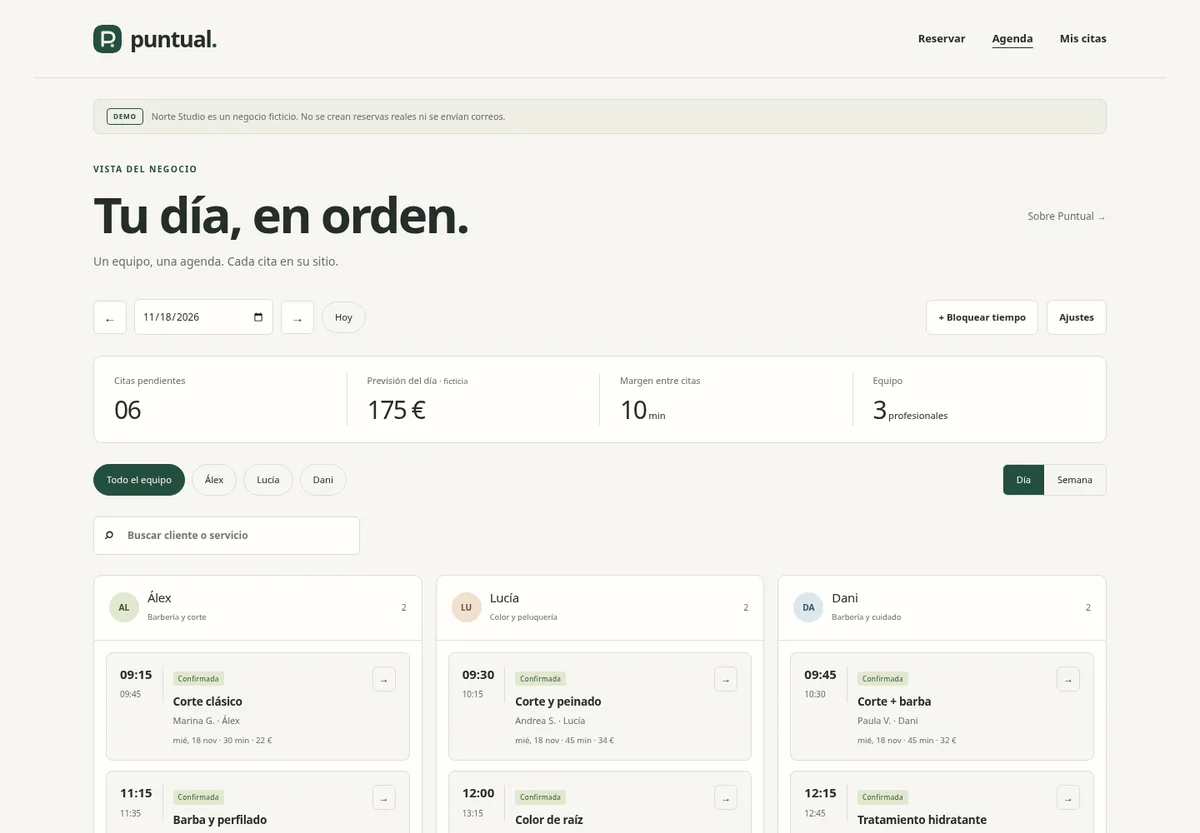
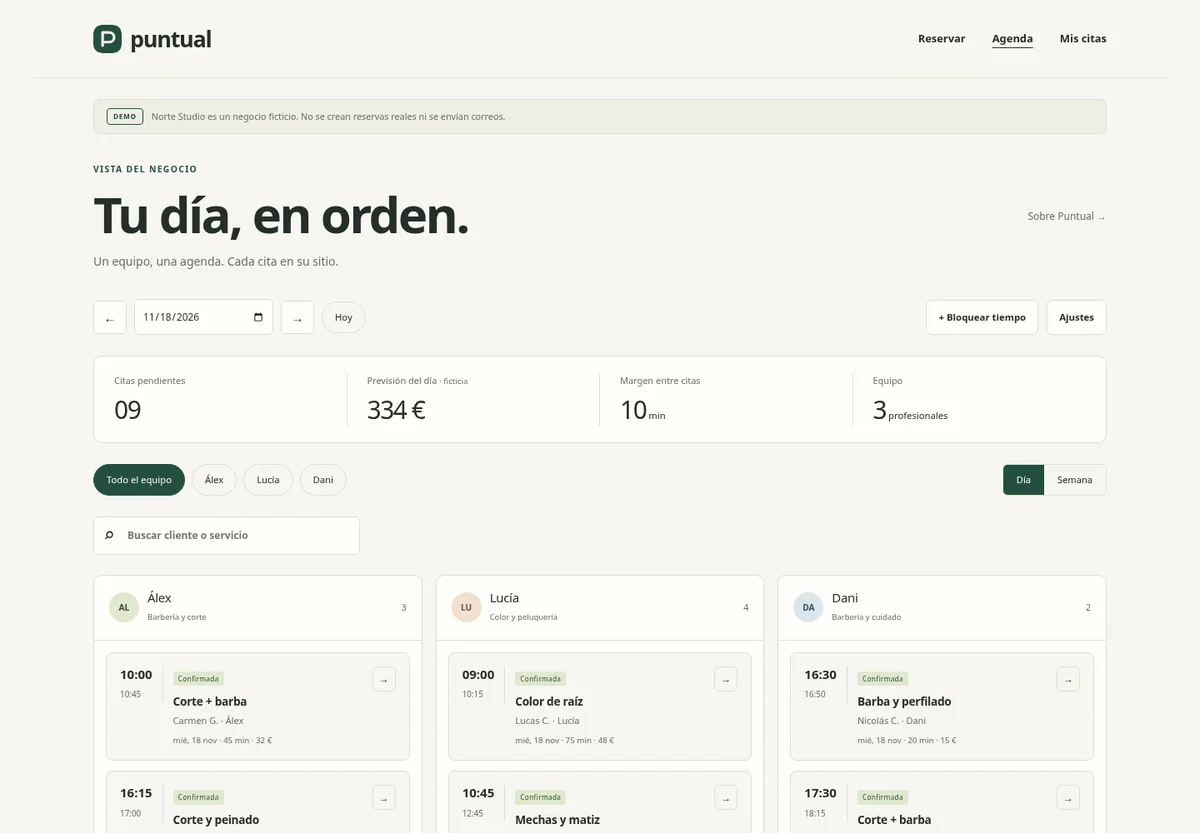
Unificar botones de proyectos y renovar la imagen de Puntual

diff --git a/index.html b/index.html
@@ -41,28 +41,28 @@
     <section class="projects wrap" id="proyectos" aria-labelledby="proyectos-titulo">
       <div class="section-heading"><h2 id="proyectos-titulo">Ideas en marcha<span class="brand-dot">.</span></h2><span class="section-note">PROYECTOS PERSONALES</span></div>
       <article class="featured" aria-labelledby="platto-titulo">
-        <div class="featured-content"><p class="eyebrow"><time datetime="2026">2026</time> · CARTA DIGITAL</p><h3 id="platto-titulo">Tu carta,<br>siempre a punto.</h3><p>Platto presenta una propuesta de carta digital para restaurantes. Prueba el editor, las fotos y el QR en una demo y contacta para preparar una solución propia.</p><ul class="tags" aria-label="Funciones de Platto"><li>Carta digital</li><li>QR permanente</li><li>Demo editable</li></ul><a class="button" href="https://platto.nmclabs.dev/" target="_blank" rel="noopener noreferrer">Descubrir Platto <span aria-hidden="true"><svg class="icon-arrow" viewBox="0 0 24 24" fill="none" aria-hidden="true"><path d="m6 18 12-12M6 6h12v12" stroke="currentColor" stroke-width="1.7" stroke-linecap="round" stroke-linejoin="round"/></svg></span></a></div>
+        <div class="featured-content"><p class="eyebrow"><time datetime="2026">2026</time> · CARTA DIGITAL</p><h3 id="platto-titulo">Tu carta,<br>siempre a punto.</h3><p>Platto presenta una propuesta de carta digital para restaurantes. Prueba el editor, las fotos y el QR en una demo y contacta para preparar una solución propia.</p><ul class="tags" aria-label="Funciones de Platto"><li>Carta digital</li><li>QR permanente</li><li>Demo editable</li></ul><a class="button project-cta" href="https://platto.nmclabs.dev/" target="_blank" rel="noopener noreferrer">Descubrir Platto <span aria-hidden="true"><svg class="icon-arrow" viewBox="0 0 24 24" fill="none" aria-hidden="true"><path d="m6 18 12-12M6 6h12v12" stroke="currentColor" stroke-width="1.7" stroke-linecap="round" stroke-linejoin="round"/></svg></span></a></div>
         <a class="platto-art" href="https://platto.nmclabs.dev/" aria-label="Descubrir Platto" target="_blank" rel="noopener noreferrer"><div class="art-inner" aria-hidden="true"><span class="platto-art-top">MENOS PAPEL. MÁS SABOR.</span><span class="platto-wordmark"><span class="platto-plate"><i></i></span>platto<span>.</span></span><div class="platto-art-menu"><span>PARA COMPARTIR</span><div><span>Chuletón madurado para dos</span><b>89,00 €</b></div><div><span>Ribera del Duero · Reserva</span><b>42,00 €</b></div></div><span class="platto-art-bottom">Tu carta cambia. Tu QR permanece.<span>✳</span></span></div></a>
       <details class="project-origin"><summary><span>La idea detrás del proyecto</span><span class="origin-toggle" aria-hidden="true">+</span></summary><div class="origin-content" aria-label="La idea de Platto"><div><span class="origin-label">LA IDEA</span><p>Una carta puede cambiar cada semana; el QR que está sobre la mesa debería seguir sirviendo.</p></div><div><span class="origin-label">EL RETO</span><p>Que actualizar platos y precios resulte sencillo y la carta se lea bien en un móvil.</p></div><div><span class="origin-label">LA DECISIÓN</span><p>Separar una presentación comercial clara de una demo donde probar el editor antes de dar el siguiente paso.</p></div></div></details></article>
       <article class="featured puntual-featured" aria-labelledby="puntual-titulo">
-        <div class="featured-content"><p class="eyebrow"><time datetime="2026">2026</time> · RESERVAS Y AGENDA</p><h3 id="puntual-titulo">Cada cita,<br>en su sitio.</h3><p>Puntual conecta la reserva del cliente con la agenda del negocio. Una propuesta para barberías y peluquerías, con una demo para elegir servicio, encontrar una hora y gestionar el día.</p><ul class="tags" aria-label="Funciones de Puntual"><li>Reservas</li><li>Agenda de equipo</li><li>Demo conectada</li></ul><a class="button" href="https://puntual.nmclabs.dev/" target="_blank" rel="noopener noreferrer">Descubrir Puntual <span aria-hidden="true"><svg class="icon-arrow" viewBox="0 0 24 24" fill="none" aria-hidden="true"><path d="m6 18 12-12M6 6h12v12" stroke="currentColor" stroke-width="1.7" stroke-linecap="round" stroke-linejoin="round"/></svg></span><span class="sr-only"> (se abre en una pestaña nueva)</span></a></div>
-        <a class="puntual-art" href="https://puntual.nmclabs.dev/" target="_blank" rel="noopener noreferrer" aria-label="Descubrir Puntual en una pestaña nueva"><span class="puntual-art-label">MENOS LLAMADAS. MÁS TIEMPO PARA LO TUYO.</span><img src="proyectos/puntual-card.webp" width="1200" height="833" alt="Agenda de Puntual con citas de ejemplo organizadas por profesional" loading="lazy"><span class="puntual-art-caption">Tu equipo. Una sola agenda.<span aria-hidden="true"><svg class="icon-arrow" viewBox="0 0 24 24" fill="none" aria-hidden="true"><path d="m6 18 12-12M6 6h12v12" stroke="currentColor" stroke-width="1.7" stroke-linecap="round" stroke-linejoin="round"/></svg></span></span></a>
+        <div class="featured-content"><p class="eyebrow"><time datetime="2026">2026</time> · RESERVAS Y AGENDA</p><h3 id="puntual-titulo">Cada cita,<br>en su sitio.</h3><p>Puntual conecta la reserva del cliente con la agenda del negocio. Una propuesta para barberías y peluquerías, con una demo para elegir servicio, encontrar una hora y gestionar el día.</p><ul class="tags" aria-label="Funciones de Puntual"><li>Reservas</li><li>Agenda de equipo</li><li>Demo conectada</li></ul><a class="button project-cta" href="https://puntual.nmclabs.dev/" target="_blank" rel="noopener noreferrer">Descubrir Puntual <span aria-hidden="true"><svg class="icon-arrow" viewBox="0 0 24 24" fill="none" aria-hidden="true"><path d="m6 18 12-12M6 6h12v12" stroke="currentColor" stroke-width="1.7" stroke-linecap="round" stroke-linejoin="round"/></svg></span><span class="sr-only"> (se abre en una pestaña nueva)</span></a></div>
+        <a class="puntual-art" href="https://puntual.nmclabs.dev/" target="_blank" rel="noopener noreferrer" aria-label="Descubrir Puntual en una pestaña nueva"><span class="puntual-art-label">MENOS LLAMADAS. MÁS TIEMPO PARA LO TUYO.</span><img src="proyectos/puntual-card.webp?v=2" width="1200" height="833" alt="Agenda de Puntual con citas de ejemplo organizadas por profesional" loading="lazy"><span class="puntual-art-caption">Tu equipo. Una sola agenda.<span aria-hidden="true"><svg class="icon-arrow" viewBox="0 0 24 24" fill="none" aria-hidden="true"><path d="m6 18 12-12M6 6h12v12" stroke="currentColor" stroke-width="1.7" stroke-linecap="round" stroke-linejoin="round"/></svg></span></span></a>
         <details class="project-origin"><summary><span>La idea detrás del proyecto</span><span class="origin-toggle" aria-hidden="true">+</span></summary><div class="origin-content" aria-label="La idea de Puntual"><div><span class="origin-label">LA IDEA</span><p>Un corte no debería interrumpirse para encontrar una hora entre llamadas y mensajes.</p></div><div><span class="origin-label">EL RETO</span><p>Hacer que cada reserva respete las especialidades del equipo, la duración del servicio y los descansos.</p></div><div><span class="origin-label">LA DECISIÓN</span><p>Conectar la reserva del cliente y la agenda del negocio en una demo completa, con cambios y cancelaciones que actualizan los huecos.</p></div></div></details>
       </article>
       <article class="featured atlas-featured" aria-labelledby="atlas-titulo">
-        <div class="featured-content"><p class="eyebrow"><time datetime="2026">2026</time> · PATRIMONIO PERSONAL</p><h3 id="atlas-titulo">Un lugar para ver<br>tu patrimonio.</h3><p>Atlas reúne cuentas, inversiones y activos en una visión clara. Un registro mensual para entender tu evolución, a tu ritmo.</p><ul class="tags" aria-label="Funciones de Atlas"><li>Patrimonio</li><li>Evolución</li><li>Informes</li></ul><a class="button" href="https://atlas.nmclabs.dev/" target="_blank" rel="noopener noreferrer">Descubrir Atlas <span aria-hidden="true"><svg class="icon-arrow" viewBox="0 0 24 24" fill="none" aria-hidden="true"><path d="m6 18 12-12M6 6h12v12" stroke="currentColor" stroke-width="1.7" stroke-linecap="round" stroke-linejoin="round"/></svg></span><span class="sr-only"> (se abre en una pestaña nueva)</span></a></div>
+        <div class="featured-content"><p class="eyebrow"><time datetime="2026">2026</time> · PATRIMONIO PERSONAL</p><h3 id="atlas-titulo">Un lugar para ver<br>tu patrimonio.</h3><p>Atlas reúne cuentas, inversiones y activos en una visión clara. Un registro mensual para entender tu evolución, a tu ritmo.</p><ul class="tags" aria-label="Funciones de Atlas"><li>Patrimonio</li><li>Evolución</li><li>Informes</li></ul><a class="button project-cta" href="https://atlas.nmclabs.dev/" target="_blank" rel="noopener noreferrer">Descubrir Atlas <span aria-hidden="true"><svg class="icon-arrow" viewBox="0 0 24 24" fill="none" aria-hidden="true"><path d="m6 18 12-12M6 6h12v12" stroke="currentColor" stroke-width="1.7" stroke-linecap="round" stroke-linejoin="round"/></svg></span><span class="sr-only"> (se abre en una pestaña nueva)</span></a></div>
         <a class="atlas-art" href="https://atlas.nmclabs.dev/" aria-label="Descubrir Atlas" target="_blank" rel="noopener noreferrer"><div class="art-inner" aria-hidden="true"><div class="atlas-art-top"><span>UNA VISIÓN MÁS CLARA</span><span><svg class="icon-arrow" viewBox="0 0 24 24" fill="none" aria-hidden="true"><path d="m6 18 12-12M6 6h12v12" stroke="currentColor" stroke-width="1.7" stroke-linecap="round" stroke-linejoin="round"/></svg></span></div><div class="atlas-wordmark"><span class="atlas-bars"><i></i><i></i><i></i></span>atlas<span>.</span></div><svg class="atlas-chart" viewBox="0 0 480 155" fill="none"><path d="M0 36H480M0 85H480M0 134H480" stroke="currentColor" stroke-opacity=".16"/><path d="M0 130 48 121 96 126 144 96 192 100 240 72 288 82 336 44 384 52 432 18 480 6" stroke="currentColor" stroke-width="3" stroke-linecap="round" stroke-linejoin="round"/></svg><div class="atlas-art-bottom"><span>Tu patrimonio, con perspectiva.</span><span>MES A MES</span></div></div></a>
       <details class="project-origin"><summary><span>La idea detrás del proyecto</span><span class="origin-toggle" aria-hidden="true">+</span></summary><div class="origin-content" aria-label="La idea de Atlas"><div><span class="origin-label">LA IDEA</span><p>Un saldo aislado dice poco. La idea es reunir las piezas del patrimonio y conservar una perspectiva mes a mes.</p></div><div><span class="origin-label">EL RETO</span><p>Ver el conjunto sin perder la moneda, la fecha y el contexto de cada registro.</p></div><div><span class="origin-label">LA DECISIÓN</span><p>Organizar la experiencia alrededor de cuentas, inversiones y cierres mensuales, con informes que se puedan conservar.</p></div></div></details></article>
       <article class="featured tramo-featured" aria-labelledby="tramo-titulo">
-        <div class="featured-content"><p class="eyebrow"><time datetime="2026">2026</time> · SEGUIMIENTO DE ENVÍOS</p><h3 id="tramo-titulo">Tus paquetes,<br>en cada tramo.</h3><p>Tramo reúne tus envíos en un solo lugar. Consulta rápida, un espacio personal y una demo para explorar cada paso del recorrido.</p><ul class="tags" aria-label="Funciones de Tramo"><li>Seguimiento</li><li>Paquetes</li><li>Demo interactiva</li></ul><a class="button" href="https://tramo.nmclabs.dev/" target="_blank" rel="noopener noreferrer">Descubrir Tramo <span aria-hidden="true"><svg class="icon-arrow" viewBox="0 0 24 24" fill="none" aria-hidden="true"><path d="m6 18 12-12M6 6h12v12" stroke="currentColor" stroke-width="1.7" stroke-linecap="round" stroke-linejoin="round"/></svg></span></a></div>
+        <div class="featured-content"><p class="eyebrow"><time datetime="2026">2026</time> · SEGUIMIENTO DE ENVÍOS</p><h3 id="tramo-titulo">Tus paquetes,<br>en cada tramo.</h3><p>Tramo reúne tus envíos en un solo lugar. Consulta rápida, un espacio personal y una demo para explorar cada paso del recorrido.</p><ul class="tags" aria-label="Funciones de Tramo"><li>Seguimiento</li><li>Paquetes</li><li>Demo interactiva</li></ul><a class="button project-cta" href="https://tramo.nmclabs.dev/" target="_blank" rel="noopener noreferrer">Descubrir Tramo <span aria-hidden="true"><svg class="icon-arrow" viewBox="0 0 24 24" fill="none" aria-hidden="true"><path d="m6 18 12-12M6 6h12v12" stroke="currentColor" stroke-width="1.7" stroke-linecap="round" stroke-linejoin="round"/></svg></span></a></div>
         <a class="tramo-art" href="https://tramo.nmclabs.dev/" aria-label="Descubrir Tramo" target="_blank" rel="noopener noreferrer"><span class="tramo-art-top">DE UN LUGAR A OTRO. HASTA TI.</span><span class="tramo-wordmark">tramo<span>.</span></span><svg viewBox="0 0 420 100" fill="none" aria-hidden="true"><path d="M30 75C90 75 85 25 160 25S250 75 300 50 340 25 390 25" stroke="currentColor" stroke-width="2" stroke-dasharray="6 6"/><circle cx="30" cy="75" r="6" fill="currentColor"/><circle cx="160" cy="25" r="6" fill="currentColor"/><circle cx="300" cy="50" r="6" fill="currentColor"/><circle cx="390" cy="25" r="10" fill="#df6035"/></svg><span class="tramo-art-bottom">Menos pestañas. Más tranquilidad.<span aria-hidden="true"><svg class="icon-arrow" viewBox="0 0 24 24" fill="none" aria-hidden="true"><path d="m6 18 12-12M6 6h12v12" stroke="currentColor" stroke-width="1.7" stroke-linecap="round" stroke-linejoin="round"/></svg></span></span></a>
       <details class="project-origin"><summary><span>La idea detrás del proyecto</span><span class="origin-toggle" aria-hidden="true">+</span></summary><div class="origin-content" aria-label="La idea de Tramo"><div><span class="origin-label">LA IDEA</span><p>La historia de un envío suele quedar repartida entre compañías, estados y páginas distintas.</p></div><div><span class="origin-label">EL RETO</span><p>Entender qué ha pasado y dónde está el paquete sin tener que reconstruir el recorrido.</p></div><div><span class="origin-label">LA DECISIÓN</span><p>Reunir los eventos en una línea de tiempo y un mapa, conservando el mensaje original del transportista.</p></div></div></details></article>
-<section class="current-tools" aria-labelledby="current-tools-title"><header class="current-tools-heading"><div><p class="eyebrow">CREADAS PARA EL MOMENTO</p><h3 id="current-tools-title">Herramientas de actualidad.</h3></div><p>Guías interactivas, cuentas atrás y simulación.<br>Herramientas con sus fuentes enlazadas.</p></header><div class="current-tools-grid"><article class="current-tool"><a class="current-tool-image" href="https://gtacountdown.nmclabs.dev/" target="_blank" rel="noopener noreferrer" aria-label="Abrir GTA VI · Cuenta atrás en una pestaña nueva"><img src="proyectos/gtacountdown-card.webp" width="1200" height="833" alt="GTA VI: nueva portada con Jason y Lucia y cuenta atrás" loading="lazy"></a><div class="current-tool-content"><p class="eyebrow"><time datetime="2026">2026</time> · CUENTA ATRÁS</p><div class="current-tool-heading"><h4>GTA VI · Cuenta atrás</h4><span>19 de noviembre</span></div><p>La espera de GTA VI con 50 escenas, idioma automático y tarjetas compartibles. Explora Leonida, crea fondos y guarda tus favoritas.</p><a class="current-tool-link" href="https://gtacountdown.nmclabs.dev/" target="_blank" rel="noopener noreferrer">Ver la cuenta atrás <svg class="icon-arrow" viewBox="0 0 24 24" fill="none" aria-hidden="true"><path d="m6 18 12-12M6 6h12v12" stroke="currentColor" stroke-width="1.7" stroke-linecap="round" stroke-linejoin="round"/></svg><span class="sr-only"> (pestaña nueva)</span></a></div><details class="project-origin"><summary><span>La idea detrás del proyecto</span><span class="origin-toggle" aria-hidden="true">+</span></summary><div class="origin-content" aria-label="La idea de GTA VI · Cuenta atrás"><div><span class="origin-label">LA IDEA</span><p>Convertir la espera de GTA VI en una experiencia inspirada en sus pantallas de carga.</p></div><div><span class="origin-label">EL RETO</span><p>Dar variedad a la portada y permitir explorar escenas sin cargar todas las imágenes grandes de golpe.</p></div><div><span class="origin-label">LA DECISIÓN</span><p>Una página de escenas automáticas, favoritos y fondos; el idioma se adapta al sistema para entrar directamente.</p></div></div></details></article><article class="current-tool"><a class="current-tool-image" href="https://29n.nmclabs.dev/" target="_blank" rel="noopener noreferrer" aria-label="Abrir 29N en una pestaña nueva"><img src="proyectos/29n-card.webp" width="1200" height="833" alt="29N: pactómetro con el reparto histórico oficial de 2023 y partidos seleccionables" loading="lazy"></a><div class="current-tool-content"><p class="eyebrow"><time datetime="2026">2026</time> · ESPECIAL ELECTORAL</p><div class="current-tool-heading"><h4>29N</h4><span>29 de noviembre</span></div><p>Un observatorio electoral para comparar sondeos, elegir partidos en las gráficas y explorar el hemiciclo de cada estimación. Con fuentes, contexto y resultados anteriores.</p><a class="current-tool-link" href="https://29n.nmclabs.dev/" target="_blank" rel="noopener noreferrer">Explorar el 29N <svg class="icon-arrow" viewBox="0 0 24 24" fill="none" aria-hidden="true"><path d="m6 18 12-12M6 6h12v12" stroke="currentColor" stroke-width="1.7" stroke-linecap="round" stroke-linejoin="round"/></svg><span class="sr-only"> (pestaña nueva)</span></a></div><details class="project-origin"><summary><span>La idea detrás del proyecto</span><span class="origin-toggle" aria-hidden="true">+</span></summary><div class="origin-content" aria-label="La idea de 29N"><div><span class="origin-label">LA IDEA</span><p>Empezó como un calendario y un pactómetro; la idea creció hacia un observatorio para leer las elecciones.</p></div><div><span class="origin-label">EL RETO</span><p>Entender qué cuenta cada sondeo sin mezclar una encuesta, un resultado oficial y una simulación.</p></div><div><span class="origin-label">LA DECISIÓN</span><p>Dar prioridad a los datos: comparar empresas, elegir partidos en las gráficas y representar los repartos publicados.</p></div></div></details></article></div></section>
+<section class="current-tools" aria-labelledby="current-tools-title"><header class="current-tools-heading"><div><p class="eyebrow">CREADAS PARA EL MOMENTO</p><h3 id="current-tools-title">Herramientas de actualidad.</h3></div><p>Guías interactivas, cuentas atrás y simulación.<br>Herramientas con sus fuentes enlazadas.</p></header><div class="current-tools-grid"><article class="current-tool"><a class="current-tool-image" href="https://gtacountdown.nmclabs.dev/" target="_blank" rel="noopener noreferrer" aria-label="Abrir GTA VI · Cuenta atrás en una pestaña nueva"><img src="proyectos/gtacountdown-card.webp" width="1200" height="833" alt="GTA VI: nueva portada con Jason y Lucia y cuenta atrás" loading="lazy"></a><div class="current-tool-content"><p class="eyebrow"><time datetime="2026">2026</time> · CUENTA ATRÁS</p><div class="current-tool-heading"><h4>GTA VI · Cuenta atrás</h4><span>19 de noviembre</span></div><p>La espera de GTA VI con 50 escenas, idioma automático y tarjetas compartibles. Explora Leonida, crea fondos y guarda tus favoritas.</p><a class="current-tool-link button project-cta" href="https://gtacountdown.nmclabs.dev/" target="_blank" rel="noopener noreferrer">Descubrir GTA VI <svg class="icon-arrow" viewBox="0 0 24 24" fill="none" aria-hidden="true"><path d="m6 18 12-12M6 6h12v12" stroke="currentColor" stroke-width="1.7" stroke-linecap="round" stroke-linejoin="round"/></svg><span class="sr-only"> (pestaña nueva)</span></a></div><details class="project-origin"><summary><span>La idea detrás del proyecto</span><span class="origin-toggle" aria-hidden="true">+</span></summary><div class="origin-content" aria-label="La idea de GTA VI · Cuenta atrás"><div><span class="origin-label">LA IDEA</span><p>Convertir la espera de GTA VI en una experiencia inspirada en sus pantallas de carga.</p></div><div><span class="origin-label">EL RETO</span><p>Dar variedad a la portada y permitir explorar escenas sin cargar todas las imágenes grandes de golpe.</p></div><div><span class="origin-label">LA DECISIÓN</span><p>Una página de escenas automáticas, favoritos y fondos; el idioma se adapta al sistema para entrar directamente.</p></div></div></details></article><article class="current-tool"><a class="current-tool-image" href="https://29n.nmclabs.dev/" target="_blank" rel="noopener noreferrer" aria-label="Abrir 29N en una pestaña nueva"><img src="proyectos/29n-card.webp" width="1200" height="833" alt="29N: pactómetro con el reparto histórico oficial de 2023 y partidos seleccionables" loading="lazy"></a><div class="current-tool-content"><p class="eyebrow"><time datetime="2026">2026</time> · ESPECIAL ELECTORAL</p><div class="current-tool-heading"><h4>29N</h4><span>29 de noviembre</span></div><p>Un observatorio electoral para comparar sondeos, elegir partidos en las gráficas y explorar el hemiciclo de cada estimación. Con fuentes, contexto y resultados anteriores.</p><a class="current-tool-link button project-cta" href="https://29n.nmclabs.dev/" target="_blank" rel="noopener noreferrer">Descubrir 29N <svg class="icon-arrow" viewBox="0 0 24 24" fill="none" aria-hidden="true"><path d="m6 18 12-12M6 6h12v12" stroke="currentColor" stroke-width="1.7" stroke-linecap="round" stroke-linejoin="round"/></svg><span class="sr-only"> (pestaña nueva)</span></a></div><details class="project-origin"><summary><span>La idea detrás del proyecto</span><span class="origin-toggle" aria-hidden="true">+</span></summary><div class="origin-content" aria-label="La idea de 29N"><div><span class="origin-label">LA IDEA</span><p>Empezó como un calendario y un pactómetro; la idea creció hacia un observatorio para leer las elecciones.</p></div><div><span class="origin-label">EL RETO</span><p>Entender qué cuenta cada sondeo sin mezclar una encuesta, un resultado oficial y una simulación.</p></div><div><span class="origin-label">LA DECISIÓN</span><p>Dar prioridad a los datos: comparar empresas, elegir partidos en las gráficas y representar los repartos publicados.</p></div></div></details></article></div></section>
       <div class="archive-heading"><h3>Donde empezó todo</h3><p>Mis primeras webs, con su año de origen y nuevas formas de revisitarlas.</p></div>
       <div class="project-grid">
-<article class="project-lineage" aria-label="Tinyspace: original y rediseño del mismo proyecto"><header class="lineage-heading"><div><h3>Tinyspace</h3><p>Del primer catálogo de mobiliario a una tienda que permite probar sus muebles a escala.</p></div><span class="lineage-years"><time datetime="2022">2022</time><span aria-hidden="true">→</span><time datetime="2026">2026</time></span></header><div class="lineage-versions"><section class="lineage-original"><p class="version-badge">EL ORIGINAL · 2022</p><a class="lineage-image" href="https://tinyspace.nmclabs.dev/" target="_blank" rel="noopener noreferrer" aria-label="Visitar Tinyspace original (pestaña nueva)"><img src="proyectos/tinyspace-original-card.webp" width="1440" height="1000" alt="Tinyspace: versión original" loading="lazy"></a><h4>El primer catálogo.</h4><p>Un concepto de mueblería para practicar HTML, CSS, imágenes y composición.</p><a class="lineage-action" href="https://tinyspace.nmclabs.dev/" target="_blank" rel="noopener noreferrer">Visitar original <svg class="icon-arrow" viewBox="0 0 24 24" fill="none" aria-hidden="true"><path d="m6 18 12-12M6 6h12v12" stroke="currentColor" stroke-width="1.7" stroke-linecap="round" stroke-linejoin="round"/></svg></a></section><section class="lineage-new"><p class="version-badge">EL REDISEÑO · 2026 · NMC LABS</p><a class="lineage-image" href="https://tiny.nmclabs.dev/" target="_blank" rel="noopener noreferrer" aria-label="Explorar Tinyspace rediseñado (pestaña nueva)"><img src="proyectos/tinyspace-redesign-card.webp" width="1440" height="1000" alt="Tinyspace: nueva versión de NMC Labs" loading="lazy"></a><h4>Tienda y plano a medida.</h4><p>Treinta productos, una habitación editable y propuestas para empresas.</p><a class="lineage-action primary" href="https://tiny.nmclabs.dev/" target="_blank" rel="noopener noreferrer">Explorar rediseño <svg class="icon-arrow" viewBox="0 0 24 24" fill="none" aria-hidden="true"><path d="m6 18 12-12M6 6h12v12" stroke="currentColor" stroke-width="1.7" stroke-linecap="round" stroke-linejoin="round"/></svg></a></section></div><footer class="lineage-footer"><span>Un mismo proyecto. Dos etapas.</span><a href="proyectos/tinyspace.html">Ver su historia y evolución <span aria-hidden="true">→</span></a></footer></article>
-<article class="project-lineage" aria-label="El Estanque Azul: original y rediseño del mismo proyecto"><header class="lineage-heading"><div><h3>El Estanque Azul</h3><p>De presentar una granja a diseñar una jornada con su propio programa.</p></div><span class="lineage-years"><time datetime="2021">2021</time><span aria-hidden="true">→</span><time datetime="2026">2026</time></span></header><div class="lineage-versions"><section class="lineage-original"><p class="version-badge">EL ORIGINAL · 2021</p><a class="lineage-image" href="https://estanque.nmclabs.dev/" target="_blank" rel="noopener noreferrer" aria-label="Visitar El Estanque Azul original (pestaña nueva)"><img src="proyectos/estanque-original-card.webp" width="1440" height="1000" alt="El Estanque Azul: versión original" loading="lazy"></a><h4>Mi primera web.</h4><p>Una granja imaginaria como primer proyecto de HTML y CSS.</p><a class="lineage-action" href="https://estanque.nmclabs.dev/" target="_blank" rel="noopener noreferrer">Visitar original <svg class="icon-arrow" viewBox="0 0 24 24" fill="none" aria-hidden="true"><path d="m6 18 12-12M6 6h12v12" stroke="currentColor" stroke-width="1.7" stroke-linecap="round" stroke-linejoin="round"/></svg></a></section><section class="lineage-new"><p class="version-badge">EL REDISEÑO · 2026 · NMC LABS</p><a class="lineage-image" href="https://granja.nmclabs.dev/" target="_blank" rel="noopener noreferrer" aria-label="Explorar El Estanque Azul rediseñado (pestaña nueva)"><img src="proyectos/estanque-redesign-card.webp" width="1440" height="1000" alt="El Estanque Azul: nueva versión de NMC Labs" loading="lazy"></a><h4>Diseña un día en la granja.</h4><p>Descubre la granja y prepara una visita con duración y presupuesto calculados.</p><a class="lineage-action primary" href="https://granja.nmclabs.dev/" target="_blank" rel="noopener noreferrer">Explorar rediseño <svg class="icon-arrow" viewBox="0 0 24 24" fill="none" aria-hidden="true"><path d="m6 18 12-12M6 6h12v12" stroke="currentColor" stroke-width="1.7" stroke-linecap="round" stroke-linejoin="round"/></svg></a></section></div><footer class="lineage-footer"><span>Un mismo proyecto. Dos etapas.</span><a href="proyectos/estanque-azul.html">Ver su historia y evolución <span aria-hidden="true">→</span></a></footer></article>
-<article class="project-lineage" aria-label="Skullscape: original y rediseño del mismo proyecto"><header class="lineage-heading"><div><h3>Skullscape</h3><p>De presentar unos auriculares a elegir el modelo y darles tu estilo.</p></div><span class="lineage-years"><time datetime="2023">2023</time><span aria-hidden="true">→</span><time datetime="2026">2026</time></span></header><div class="lineage-versions"><section class="lineage-original"><p class="version-badge">EL ORIGINAL · 2023</p><a class="lineage-image" href="https://skullscape.nmclabs.dev/" target="_blank" rel="noopener noreferrer" aria-label="Visitar Skullscape original (pestaña nueva)"><img src="proyectos/skullscape-original-card.webp" width="1440" height="1000" alt="Skullscape: la landing de auriculares original" loading="lazy"></a><h4>Una marca para aprender.</h4><p>Una landing de auriculares como ejercicio de diseño y maquetación con HTML y CSS.</p><a class="lineage-action" href="https://skullscape.nmclabs.dev/" target="_blank" rel="noopener noreferrer">Visitar original <svg class="icon-arrow" viewBox="0 0 24 24" fill="none" aria-hidden="true"><path d="m6 18 12-12M6 6h12v12" stroke="currentColor" stroke-width="1.7" stroke-linecap="round" stroke-linejoin="round"/></svg></a></section><section class="lineage-new"><p class="version-badge">EL REDISEÑO · 2026 · NMC LABS</p><a class="lineage-image" href="https://audio.nmclabs.dev/" target="_blank" rel="noopener noreferrer" aria-label="Explorar Skullscape rediseñado (pestaña nueva)"><img src="proyectos/skullscape-redesign-card.webp" width="1440" height="1000" alt="Skullscape: tienda de auriculares personalizables de NMC Labs" loading="lazy"></a><h4>Tu modelo. Tu firma.</h4><p>Tres modelos, comparador y personalización de acabados, almohadillas y grabado.</p><a class="lineage-action primary" href="https://audio.nmclabs.dev/" target="_blank" rel="noopener noreferrer">Explorar rediseño <svg class="icon-arrow" viewBox="0 0 24 24" fill="none" aria-hidden="true"><path d="m6 18 12-12M6 6h12v12" stroke="currentColor" stroke-width="1.7" stroke-linecap="round" stroke-linejoin="round"/></svg></a></section></div><footer class="lineage-footer"><span>Un mismo proyecto. Dos etapas.</span><a href="proyectos/skullscape.html">Ver su historia y evolución <span aria-hidden="true">→</span></a></footer></article>
+<article class="project-lineage" aria-label="Tinyspace: original y rediseño del mismo proyecto"><header class="lineage-heading"><div><h3>Tinyspace</h3><p>Del primer catálogo de mobiliario a una tienda que permite probar sus muebles a escala.</p></div><span class="lineage-years"><time datetime="2022">2022</time><span aria-hidden="true">→</span><time datetime="2026">2026</time></span></header><div class="lineage-versions"><section class="lineage-original"><p class="version-badge">EL ORIGINAL · 2022</p><a class="lineage-image" href="https://tinyspace.nmclabs.dev/" target="_blank" rel="noopener noreferrer" aria-label="Visitar Tinyspace original (pestaña nueva)"><img src="proyectos/tinyspace-original-card.webp" width="1440" height="1000" alt="Tinyspace: versión original" loading="lazy"></a><h4>El primer catálogo.</h4><p>Un concepto de mueblería para practicar HTML, CSS, imágenes y composición.</p><a class="lineage-action button project-cta" href="https://tinyspace.nmclabs.dev/" target="_blank" rel="noopener noreferrer">Visitar original <svg class="icon-arrow" viewBox="0 0 24 24" fill="none" aria-hidden="true"><path d="m6 18 12-12M6 6h12v12" stroke="currentColor" stroke-width="1.7" stroke-linecap="round" stroke-linejoin="round"/></svg></a></section><section class="lineage-new"><p class="version-badge">EL REDISEÑO · 2026 · NMC LABS</p><a class="lineage-image" href="https://tiny.nmclabs.dev/" target="_blank" rel="noopener noreferrer" aria-label="Explorar Tinyspace rediseñado (pestaña nueva)"><img src="proyectos/tinyspace-redesign-card.webp" width="1440" height="1000" alt="Tinyspace: nueva versión de NMC Labs" loading="lazy"></a><h4>Tienda y plano a medida.</h4><p>Treinta productos, una habitación editable y propuestas para empresas.</p><a class="lineage-action primary button project-cta" href="https://tiny.nmclabs.dev/" target="_blank" rel="noopener noreferrer">Descubrir rediseño <svg class="icon-arrow" viewBox="0 0 24 24" fill="none" aria-hidden="true"><path d="m6 18 12-12M6 6h12v12" stroke="currentColor" stroke-width="1.7" stroke-linecap="round" stroke-linejoin="round"/></svg></a></section></div><footer class="lineage-footer"><span>Un mismo proyecto. Dos etapas.</span><a class="button project-cta" href="proyectos/tinyspace.html">Historia y evolución <span aria-hidden="true">→</span></a></footer></article>
+<article class="project-lineage" aria-label="El Estanque Azul: original y rediseño del mismo proyecto"><header class="lineage-heading"><div><h3>El Estanque Azul</h3><p>De presentar una granja a diseñar una jornada con su propio programa.</p></div><span class="lineage-years"><time datetime="2021">2021</time><span aria-hidden="true">→</span><time datetime="2026">2026</time></span></header><div class="lineage-versions"><section class="lineage-original"><p class="version-badge">EL ORIGINAL · 2021</p><a class="lineage-image" href="https://estanque.nmclabs.dev/" target="_blank" rel="noopener noreferrer" aria-label="Visitar El Estanque Azul original (pestaña nueva)"><img src="proyectos/estanque-original-card.webp" width="1440" height="1000" alt="El Estanque Azul: versión original" loading="lazy"></a><h4>Mi primera web.</h4><p>Una granja imaginaria como primer proyecto de HTML y CSS.</p><a class="lineage-action button project-cta" href="https://estanque.nmclabs.dev/" target="_blank" rel="noopener noreferrer">Visitar original <svg class="icon-arrow" viewBox="0 0 24 24" fill="none" aria-hidden="true"><path d="m6 18 12-12M6 6h12v12" stroke="currentColor" stroke-width="1.7" stroke-linecap="round" stroke-linejoin="round"/></svg></a></section><section class="lineage-new"><p class="version-badge">EL REDISEÑO · 2026 · NMC LABS</p><a class="lineage-image" href="https://granja.nmclabs.dev/" target="_blank" rel="noopener noreferrer" aria-label="Explorar El Estanque Azul rediseñado (pestaña nueva)"><img src="proyectos/estanque-redesign-card.webp" width="1440" height="1000" alt="El Estanque Azul: nueva versión de NMC Labs" loading="lazy"></a><h4>Diseña un día en la granja.</h4><p>Descubre la granja y prepara una visita con duración y presupuesto calculados.</p><a class="lineage-action primary button project-cta" href="https://granja.nmclabs.dev/" target="_blank" rel="noopener noreferrer">Descubrir rediseño <svg class="icon-arrow" viewBox="0 0 24 24" fill="none" aria-hidden="true"><path d="m6 18 12-12M6 6h12v12" stroke="currentColor" stroke-width="1.7" stroke-linecap="round" stroke-linejoin="round"/></svg></a></section></div><footer class="lineage-footer"><span>Un mismo proyecto. Dos etapas.</span><a class="button project-cta" href="proyectos/estanque-azul.html">Historia y evolución <span aria-hidden="true">→</span></a></footer></article>
+<article class="project-lineage" aria-label="Skullscape: original y rediseño del mismo proyecto"><header class="lineage-heading"><div><h3>Skullscape</h3><p>De presentar unos auriculares a elegir el modelo y darles tu estilo.</p></div><span class="lineage-years"><time datetime="2023">2023</time><span aria-hidden="true">→</span><time datetime="2026">2026</time></span></header><div class="lineage-versions"><section class="lineage-original"><p class="version-badge">EL ORIGINAL · 2023</p><a class="lineage-image" href="https://skullscape.nmclabs.dev/" target="_blank" rel="noopener noreferrer" aria-label="Visitar Skullscape original (pestaña nueva)"><img src="proyectos/skullscape-original-card.webp" width="1440" height="1000" alt="Skullscape: la landing de auriculares original" loading="lazy"></a><h4>Una marca para aprender.</h4><p>Una landing de auriculares como ejercicio de diseño y maquetación con HTML y CSS.</p><a class="lineage-action button project-cta" href="https://skullscape.nmclabs.dev/" target="_blank" rel="noopener noreferrer">Visitar original <svg class="icon-arrow" viewBox="0 0 24 24" fill="none" aria-hidden="true"><path d="m6 18 12-12M6 6h12v12" stroke="currentColor" stroke-width="1.7" stroke-linecap="round" stroke-linejoin="round"/></svg></a></section><section class="lineage-new"><p class="version-badge">EL REDISEÑO · 2026 · NMC LABS</p><a class="lineage-image" href="https://audio.nmclabs.dev/" target="_blank" rel="noopener noreferrer" aria-label="Explorar Skullscape rediseñado (pestaña nueva)"><img src="proyectos/skullscape-redesign-card.webp" width="1440" height="1000" alt="Skullscape: tienda de auriculares personalizables de NMC Labs" loading="lazy"></a><h4>Tu modelo. Tu firma.</h4><p>Tres modelos, comparador y personalización de acabados, almohadillas y grabado.</p><a class="lineage-action primary button project-cta" href="https://audio.nmclabs.dev/" target="_blank" rel="noopener noreferrer">Descubrir rediseño <svg class="icon-arrow" viewBox="0 0 24 24" fill="none" aria-hidden="true"><path d="m6 18 12-12M6 6h12v12" stroke="currentColor" stroke-width="1.7" stroke-linecap="round" stroke-linejoin="round"/></svg></a></section></div><footer class="lineage-footer"><span>Un mismo proyecto. Dos etapas.</span><a class="button project-cta" href="proyectos/skullscape.html">Historia y evolución <span aria-hidden="true">→</span></a></footer></article>
       </div>
     </section>
     <section class="about wrap" id="sobre-mi" aria-labelledby="sobre-mi-titulo"><p class="eyebrow">UN POCO SOBRE MÍ</p><div class="about-grid"><h2 id="sobre-mi-titulo">La curiosidad,<br>puesta en práctica.</h2><div><p>Soy Nel, técnico de sistemas y la persona detrás de NMC Labs. Me gusta entender cómo funcionan las cosas. Aquí comparto lo que voy construyendo: desde mis primeras webs hasta aplicaciones que nacen de una necesidad real.</p><p>Este es mi espacio para probar, aprender y dar forma a nuevas ideas. La tecnología cambia; las ganas de crear algo útil, siguen.</p><ul class="tags" aria-label="Áreas de interés"><li>Sistemas</li><li>Desarrollo web</li><li>Automatización</li><li>Inteligencia artificial</li></ul></div></div></section>

diff --git a/estilos.css b/estilos.css
@@ -107,3 +107,11 @@ details.project-origin{display:block;grid-column:1/-1;padding:0!important}detail
 .current-tool>details.project-origin>.origin-content{display:grid;grid-template-columns:1fr;gap:17px;padding:3px 0 15px}
 
 .puntual-featured{margin-top:28px}.puntual-art{display:flex;flex-direction:column;justify-content:center;gap:25px;min-width:0;padding:32px;background:#e7ebdd;color:#294c3b}.puntual-art img{display:block;width:100%;height:auto;border:1px solid #c8d3bd;border-radius:7px;box-shadow:0 12px 32px #294c3b18}.puntual-art-label{font-size:9px;letter-spacing:.12em}.puntual-art-caption{display:flex;justify-content:space-between;align-items:center;gap:20px;font-size:11px}.puntual-art:hover{color:#294c3b}.puntual-art:focus-visible{outline-offset:-5px}@media(prefers-color-scheme:dark){.puntual-art{background:#2b3d2e;color:#e1edce}.puntual-art:hover{color:#e1edce}.puntual-art img{border-color:#617658}}@media(max-width:680px){.puntual-art{padding:26px;gap:20px}.puntual-art-label{font-size:8px}}
+
+/* One action style for products, current tools and both stages of a redesign. */
+.projects a.project-cta{display:inline-flex;align-items:center;justify-content:space-between;gap:20px;min-height:48px;padding:13px 19px;border:1px solid var(--ink);border-radius:5px;background:var(--ink);color:var(--bg);font-size:14px;font-weight:550;line-height:1.5;text-decoration:none;transition:background .2s,border-color .2s,color .2s}
+.projects a.project-cta:hover{background:var(--accent);border-color:var(--accent);color:#fff}
+.current-tool-link.project-cta{width:fit-content;margin-top:20px}
+.lineage-footer a.project-cta{font-size:14px;gap:20px}
+@media(prefers-color-scheme:dark){.projects a.project-cta:hover{color:#13251b}}
+@media(max-width:600px){.projects a.project-cta{font-size:13px}.lineage-footer a.project-cta{width:100%;font-size:13px}}
